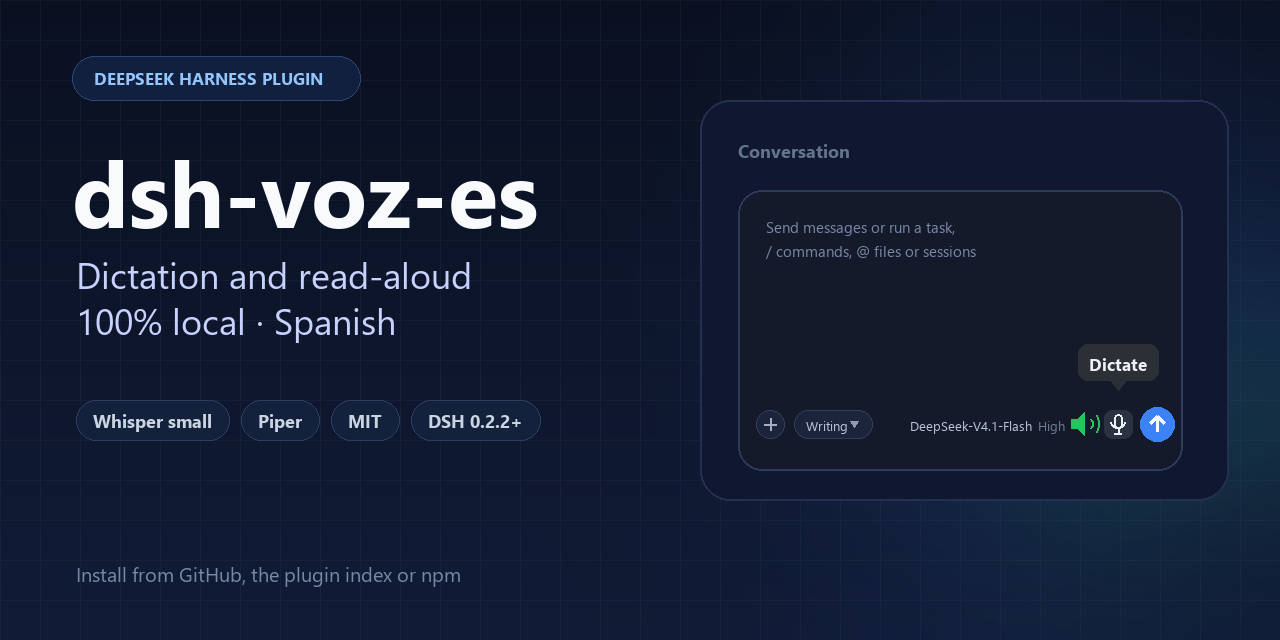
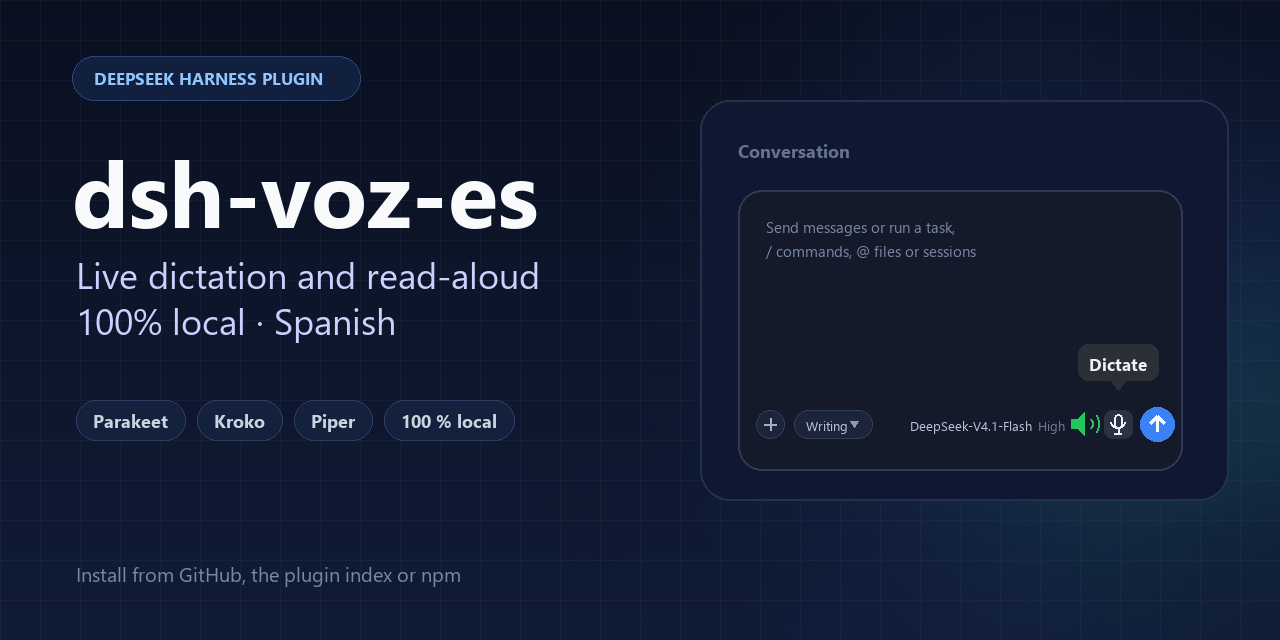
Documentacion al dia: Parakeet y dictado en vivo, imagenes regeneradas

Changed region(s): [[0.0625, 0.4062, 0.4375, 0.4688], [0.0625, 0.625, 0.4062, 0.6875]]

diff --git a/scripts/make-assets.py b/scripts/make-assets.py
@@ -32,7 +32,7 @@ AMBER = (245, 158, 11)
 COPY = {
     "es": {
         "banner": {
-            "subtitle": ["Dictado y lectura en voz alta", "100 % local · en español"],
+            "subtitle": ["Dictado en vivo y lectura", "100 % local · en español"],
             "card": "Conversación",
             "placeholder": ["Envía mensajes o ejecuta una tarea,", "/ comandos, @ archivos o sesiones"],
             "mode": "Escritura",
@@ -47,8 +47,8 @@ COPY = {
             "subtitle": "Todo ocurre en el equipo: el audio y el texto no salen a ningún servicio",
             "browser": ("Navegador (DSH Web)", ["Micrófono + waveform", "Sube WAV a 16 kHz", "Reproduce el WAV", "Inserta el texto"]),
             "host": ("Host DSH", ["Rutas autenticadas", "Cola y procesos hijos", "Sin bloquear la interfaz"]),
-            "child": ("Procesos hijos", ["Whisper (ASR)", "Piper (TTS)"]),
-            "disk": ("Modelos en disco", ["~/.dsh/…/whisper-small", "~/.dsh/…/piper-es", "Verificados por SHA-256"]),
+            "child": ("Procesos hijos", ["Parakeet (ASR)", "Piper (TTS)"]),
+            "disk": ("Modelos en disco", ["~/.dsh/…/parakeet-v3", "~/.dsh/…/kroko-es", "Verificados por SHA-256"]),
             "arrows": ["audio WAV", "texto / WAV", "HTTP + token", "resultado", "lee"],
             "no_network": "Sin red en tiempo de uso",
             "no_network_detail": "Los modelos se descargan una vez y se verifican; después todo es local.",
@@ -70,7 +70,7 @@ COPY = {
     },
     "en": {
         "banner": {
-            "subtitle": ["Dictation and read-aloud", "100% local · Spanish"],
+            "subtitle": ["Live dictation and read-aloud", "100% local · Spanish"],
             "card": "Conversation",
             "placeholder": ["Send messages or run a task,", "/ commands, @ files or sessions"],
             "mode": "Writing",
@@ -85,8 +85,8 @@ COPY = {
             "subtitle": "Everything happens on your machine: audio and text never leave it",
             "browser": ("Browser (DSH Web)", ["Microphone + waveform", "Uploads 16 kHz WAV", "Plays the WAV", "Inserts the text"]),
             "host": ("DSH Host", ["Authenticated routes", "Queue and child processes", "No UI blocking"]),
-            "child": ("Child processes", ["Whisper (ASR)", "Piper (TTS)"]),
-            "disk": ("Models on disk", ["~/.dsh/…/whisper-small", "~/.dsh/…/piper-es", "Verified by SHA-256"]),
+            "child": ("Child processes", ["Parakeet (ASR)", "Piper (TTS)"]),
+            "disk": ("Models on disk", ["~/.dsh/…/parakeet-v3", "~/.dsh/…/kroko-es", "Verified by SHA-256"]),
             "arrows": ["audio WAV", "text / WAV", "HTTP + token", "result", "reads"],
             "no_network": "No network at runtime",
             "no_network_detail": "Models are downloaded once and verified; after that everything is local.",
@@ -190,7 +190,7 @@ def banner(t: dict, out: str) -> None:
     draw.text((76, 250), t["subtitle"][0], font=font("segoeui.ttf", 36), fill=(199, 210, 254))
     draw.text((76, 296), t["subtitle"][1], font=font("segoeui.ttf", 36), fill=(199, 210, 254))
 
-    chips = ["Whisper small", "Piper", "MIT", "DSH 0.2.2+"]
+    chips = ["Parakeet", "Kroko", "Piper", "100 % local"]
     x = 76
     for label in chips:
         width = draw.textlength(label, font=font("segoeuib.ttf", 18)) + 34

diff --git a/README.es.md b/README.es.md
@@ -13,7 +13,7 @@
 </p>
 
 **Voz en español para [DeepSeek Harness](https://github.com/deepseek-ai/deepseek-harness), sin nube.**
-Dicta con Whisper local y escucha las respuestas con Piper, con modelos verificados por SHA-256 y pausa/reanudación real.
+Dicta **mientras hablas** con un modelo español en streaming, perfílalo con Parakeet y escucha las respuestas con Piper: modelos verificados por SHA-256 y sin nube.
 
 ---
 
@@ -29,7 +29,7 @@ Este repositorio resuelve las tres cosas con dos plugins que se instalan en DSH 
 
 | Plugin | Qué hace |
 |---|---|
-| **`dsh-whisper-voice`** | Añade un micrófono que dicta con **Whisper** (ONNX, sherpa-onnx) en español. El texto se inserta en el borrador sin borrar lo escrito. |
+| **`dsh-whisper-voice`** | El reconocedor local del micrófono: **Parakeet v3** (NeMo, 25 idiomas europeos) por defecto, o **Whisper** (`small`, `base`, `tiny`) como opción. El texto final se inserta en el borrador sin borrar lo escrito. |
 | **`dsh-dictado-vivo`** | Dicta **mientras hablas**: un modelo español en streaming (Kroko) escribe en el compositor y el texto queda editable para revisarlo antes de enviar. Añade una página de pruebas de sonido a la barra lateral. |
 | **`dsh-read-aloud`** | Lee las respuestas con **Piper** (voz neuronal local). Botón junto al micrófono: verde = lee, rojo tachado = silencio. Silenciar **pausa** de verdad y reanudar continúa donde iba; a los 5 s descarta. |
 
@@ -48,7 +48,7 @@ Este repositorio resuelve las tres cosas con dos plugins que se instalan en DSH 
 
 - **DSH 0.2.2.x** (probado en `0.2.2-rc.2` y `0.2.2-rc.3`).
 - `sherpa-onnx-node`, incluido en la instalación de DSH.
-- Para el dictado, activa antes el bundle **Voice input** de DSH (Plugins): el plugin de Whisper ajusta sus filas y necesita que existan.
+- Para el dictado, activa antes el bundle **Voice input** de DSH (Plugins): el plugin de dictado ajusta sus filas y necesita que existan.
 - Windows 11 probado. El motor soporta macOS y Linux; aún sin probar.
 
 ### Desde el índice de plugins (recomendado)
@@ -69,7 +69,7 @@ git+https://github.com/Navasfj/dsh-voz-es.git#<commit>&path:/packages/dsh-whispe
 git+https://github.com/Navasfj/dsh-voz-es.git#<commit>&path:/packages/dsh-dictado-vivo
 ```
 
-Orden para el dictado: **Voice input** primero y después `dsh-whisper-voice`.
+Orden para el dictado: **Voice input** primero y después `dsh-whisper-voice` y/o `dsh-dictado-vivo`.
 
 ### Desde npm (opcional)
 
@@ -78,7 +78,7 @@ cd packages/dsh-read-aloud && npm publish --access public
 cd ../dsh-whisper-voice && npm publish --access public
 ```
 
-Después: `@navasfj/dsh-read-aloud@1.0.0` y `@navasfj/dsh-whisper-voice@1.0.0`.
+Después: `@navasfj/dsh-read-aloud@1.1.0`, `@navasfj/dsh-whisper-voice@1.1.0` y `@navasfj/dsh-dictado-vivo@1.1.0`.
 
 ## Uso
 
@@ -119,7 +119,7 @@ El compositor real: el altavoz de lectura queda a la izquierda del micrófono de
 </p>
 
 - El navegador captura a **16 kHz mono** y sube el WAV por el canal autenticado de DSH.
-- El Host encola el trabajo y lo pasa a un **proceso hijo** (Whisper o Piper) por loopback con token.
+- El Host encola el trabajo y lo pasa a un **proceso hijo** (Parakeet, Whisper o Piper) por loopback con token.
 - La lectura devuelve un WAV que el navegador reproduce con un elemento de audio.
 - Los modelos viven en `%USERPROFILE%\.dsh\...` y se verifican antes de usarse.
 
@@ -149,14 +149,16 @@ Cada plugin se ajusta en su fila de `cordis.patch.yml`:
 
 | Modelo | Tamaño | Ruta |
 |---|---|---|
-| Whisper `small` INT8 | ~375 MB | `~/.dsh/speech-to-text/whisper/models/whisper-small` |
+| Parakeet v3 INT8 (por defecto) | ~670 MB | `~/.dsh/speech-to-text/whisper/models/whisper-parakeet-v3` |
+| Kroko español en streaming (dsh-dictado-vivo) | ~155 MB | `~/.dsh/dictado-vivo/models/kroko-es` |
+| Whisper `small` INT8 (opcional) | ~375 MB | `~/.dsh/speech-to-text/whisper/models/whisper-small` |
 | Piper `es_ES-sharvard-medium` + espeak | ~77 MB | `~/.dsh/read-aloud/models/piper-es-sharvard` |
 
 La primera vez que se usa cada plugin se descarga su modelo. Desinstalar el plugin no borra la caché.
 
 ## Privacidad
 
-- El audio va del navegador al Host por el canal autenticado de DSH y de ahí al proceso local de Whisper.
+- El audio va del navegador al Host por el canal autenticado de DSH y de ahí al proceso local de reconocimiento.
 - La lectura sintetiza en el Host con Piper; el navegador solo reproduce el WAV.
 - Sin telemetría, sin cuentas, sin servicios de voz. La única red es la descarga inicial del modelo.
 
@@ -165,7 +167,7 @@ La primera vez que se usa cada plugin se descarga su modelo. Desinstalar el plug
 | Síntoma | Causa y solución |
 |---|---|
 | No aparece el micrófono | El bundle **Voice input** no está activo o no se recargó la página. Actívalo y recarga con Ctrl+Shift+R. |
-| El micrófono aparece pero no transcribe | Falta el modelo o el proceso de Whisper no arrancó. Mira Plugins → Voz con Whisper y la consola del navegador. |
+| El micrófono aparece pero no transcribe | Falta el modelo o el proceso de reconocimiento no arrancó. Mira Plugins → dictado local y la consola del navegador. |
 | La lectura no suena | Comprueba que el botón está verde; si acabas de instalar, espera a que termine la descarga del modelo. |
 | La primera transcripción tarda | `small` carga el modelo en el primer uso; después queda caliente. Con `base` es más rápido y menos preciso. |
 | Descarga bloqueada | Usa `modelDirectory` con los pesos ya descargados, o revisa el acceso a Hugging Face. |
@@ -191,4 +193,4 @@ Guía para contribuir: [CONTRIBUTING.es.md](CONTRIBUTING.es.md). Para reportar v
 
 ## Licencia y atribuciones
 
-Código **MIT** — ver [LICENSE](LICENSE). Los modelos y el runtime tienen sus propias licencias (Piper, espeak-ng, Whisper, sherpa-onnx): ver [NOTICE.md](NOTICE.md).
+Código **MIT** — ver [LICENSE](LICENSE). Los modelos y el runtime tienen sus propias licencias (Parakeet, Kroko, Piper, espeak-ng, Whisper, sherpa-onnx): ver [NOTICE.md](NOTICE.md).

diff --git a/README.md b/README.md
@@ -13,7 +13,7 @@
 </p>
 
 **Local Spanish voice for [DeepSeek Harness](https://github.com/deepseek-ai/deepseek-harness), without the cloud.**
-Dictate with on-device Whisper and listen to replies with Piper, with SHA-256-verified models and true pause/resume.
+Dictate **while you speak** with a Spanish streaming model, refine it with Parakeet, and listen to replies with Piper — SHA-256-verified models, no cloud.
 
 ---
 
@@ -29,7 +29,7 @@ This repository fixes all three with two plugins that install into DSH and run o
 
 | Plugin | What it does |
 |---|---|
-| **`dsh-whisper-voice`** | Adds a microphone that dictates with **Whisper** (ONNX, sherpa-onnx) in Spanish. The transcript is inserted at the cursor without clearing what you already wrote. |
+| **`dsh-whisper-voice`** | The local recognizer behind the microphone: **Parakeet v3** (NeMo, 25 European languages) by default, or **Whisper** (`small`, `base`, `tiny`) as an option. The final transcript is inserted at the cursor without clearing what you already wrote. |
 | **`dsh-dictado-vivo`** | Dictates **while you speak**: a Spanish streaming model (Kroko) writes in the composer and the text stays editable, so you review it before sending. Adds a sound-test page to the sidebar. |
 | **`dsh-read-aloud`** | Reads replies with **Piper** (local neural voice). Button next to the microphone: green = reading, red slashed = muted. Muting **pauses** for real; resuming continues where it stopped; after 5 s it discards. |
 
@@ -48,7 +48,7 @@ This repository fixes all three with two plugins that install into DSH and run o
 
 - **DSH 0.2.2.x** (tested on `0.2.2-rc.2` and `0.2.2-rc.3`).
 - `sherpa-onnx-node`, shipped with the DSH installation.
-- For dictation, enable DSH's **Voice input** bundle first (Plugins): the Whisper provider adjusts its rows and needs them to exist.
+- For dictation, enable DSH's **Voice input** bundle first (Plugins): the dictation provider adjusts its rows and needs them to exist.
 - Tested on Windows 11. The engine supports macOS and Linux; not tested there yet.
 
 ### From the plugin index (recommended)
@@ -69,7 +69,7 @@ git+https://github.com/Navasfj/dsh-voz-es.git#<commit>&path:/packages/dsh-whispe
 git+https://github.com/Navasfj/dsh-voz-es.git#<commit>&path:/packages/dsh-dictado-vivo
 ```
 
-Order for dictation: **Voice input** first, then `dsh-whisper-voice`.
+Order for dictation: **Voice input** first, then `dsh-whisper-voice` and/or `dsh-dictado-vivo`.
 
 ### From npm (optional)
 
@@ -78,7 +78,7 @@ cd packages/dsh-read-aloud && npm publish --access public
 cd ../dsh-whisper-voice && npm publish --access public
 ```
 
-Then `@navasfj/dsh-read-aloud@1.0.0` and `@navasfj/dsh-whisper-voice@1.0.0`.
+Then `@navasfj/dsh-read-aloud@1.1.0`, `@navasfj/dsh-whisper-voice@1.1.0` and `@navasfj/dsh-dictado-vivo@1.1.0`.
 
 ## Usage
 
@@ -119,7 +119,7 @@ The real composer: the read-aloud speaker sits left of the dictation microphone,
 </p>
 
 - The browser captures at **16 kHz mono** and uploads the WAV over DSH's authenticated channel.
-- The Host queues the work and hands it to a **child process** (Whisper or Piper) over loopback with a token.
+- The Host queues the work and hands it to a **child process** (Parakeet, Whisper or Piper) over loopback with a token.
 - Reading returns a WAV that the browser plays with an audio element.
 - Models live under `%USERPROFILE%\.dsh\...` and are verified before use.
 
@@ -149,14 +149,16 @@ Each plugin is configured in its `cordis.patch.yml` row:
 
 | Model | Size | Path |
 |---|---|---|
-| Whisper `small` INT8 | ~375 MB | `~/.dsh/speech-to-text/whisper/models/whisper-small` |
+| Parakeet v3 INT8 (default) | ~670 MB | `~/.dsh/speech-to-text/whisper/models/whisper-parakeet-v3` |
+| Kroko Spanish streaming (dsh-dictado-vivo) | ~155 MB | `~/.dsh/dictado-vivo/models/kroko-es` |
+| Whisper `small` INT8 (optional) | ~375 MB | `~/.dsh/speech-to-text/whisper/models/whisper-small` |
 | Piper `es_ES-sharvard-medium` + espeak | ~77 MB | `~/.dsh/read-aloud/models/piper-es-sharvard` |
 
 Each plugin downloads its model on first use. Uninstalling the plugin does not delete the cache.
 
 ## Privacy
 
-- Audio goes from the browser to the Host over DSH's authenticated channel and then to the local Whisper process.
+- Audio goes from the browser to the Host over DSH's authenticated channel and then to the local recognizer process.
 - Reading synthesizes in the Host with Piper; the browser only plays the WAV.
 - No telemetry, no accounts, no voice services. The only network use is the initial model download.
 
@@ -165,7 +167,7 @@ Each plugin downloads its model on first use. Uninstalling the plugin does not d
 | Symptom | Cause and fix |
 |---|---|
 | No microphone appears | The **Voice input** bundle is not enabled or the page was not reloaded. Enable it and press Ctrl+Shift+R. |
-| The microphone appears but does not transcribe | The model is missing or the Whisper process did not start. Check Plugins → Whisper voice and the browser console. |
+| The microphone appears but does not transcribe | The model is missing or the recognizer process did not start. Check Plugins → local dictation and the browser console. |
 | Reading is silent | Make sure the button is green; if you just installed, wait for the Piper model download. |
 | The first transcription is slow | `small` loads the model on first use; it stays warm afterwards. `base` is faster and less accurate. |
 | The download is blocked | Use `modelDirectory` with weights already on disk, or check access to Hugging Face. |
@@ -191,4 +193,4 @@ Contributing: [CONTRIBUTING.md](CONTRIBUTING.md). Reporting vulnerabilities: [SE
 
 ## License and credits
 
-Code **MIT** — see [LICENSE](LICENSE). Models and runtime keep their own licenses (Piper, espeak-ng, Whisper, sherpa-onnx): see [NOTICE.md](NOTICE.md).
+Code **MIT** — see [LICENSE](LICENSE). Models and runtime keep their own licenses (Parakeet, Kroko, Piper, espeak-ng, Whisper, sherpa-onnx): see [NOTICE.md](NOTICE.md).

diff --git a/docs/USAGE.md b/docs/USAGE.md
@@ -6,12 +6,12 @@ Esta guía explica qué hace cada botón, qué ocurre por dentro y por qué el m
 
 ---
 
-## 1. Dictado (dsh-whisper-voice)
+## 1. Dictado (dsh-whisper-voice y dsh-dictado-vivo)
 
 ### Antes de dictar
 
-1. El bundle **Voice input** de DSH debe estar activo (Plugins). El plugin de Whisper ajusta su configuración; sin él no hay micrófono.
-2. La primera vez, DSH descarga el modelo de Whisper (~375 MB con `small`) y lo verifica. El estado se ve en **Plugins → Voz con Whisper**.
+1. El bundle **Voice input** de DSH debe estar activo (Plugins). El plugin de dictado ajusta su configuración; sin él no hay micrófono.
+2. La primera vez, DSH descarga el modelo (**Parakeet v3**, ~670 MB; o Whisper `small`, ~375 MB si lo eliges) y lo verifica. El estado se ve en **Plugins → dictado local**.
 3. El navegador pedirá permiso de micrófono la primera vez.
 
 ### Grabar
@@ -30,13 +30,13 @@ El texto no se inserta solo: aparece **Insertar** o descartar junto al micrófon
 - Grabación máxima: **120 segundos** y **4 MB** de WAV.
 - El navegador convierte a **16 kHz mono**; el Host valida el WAV antes de transcribir.
 - Modelos: `tiny` (103 MB, rápido y flojo), `base` (160 MB, dictado muy claro) y `small` (375 MB, el valor por defecto). Con `small` una frase de 8 s tarda unos 7 s en CPU; con `base`, unos 2 s.
-- Idioma: `es` por defecto. `auto` deja que Whisper lo detecte.
+- Idioma: `es` por defecto. `auto` deja que el motor lo detecte; Parakeet es multilingüe y no necesita pista.
 
 ### Qué ocurre por dentro
 
 1. El navegador graba y codifica el WAV.
 2. Lo envía al Host por el canal autenticado de DSH.
-3. El Host lo pasa a un **proceso hijo** con Whisper (sherpa-onnx) para no bloquear la interfaz.
+3. El Host lo pasa a un **proceso hijo** con Parakeet o Whisper (sherpa-onnx) para no bloquear la interfaz.
 4. Vuelve el texto y se inserta en el borrador.
 
 El audio es **transitorio**: no se guarda como evento de sesión ni como adjunto. Solo entra en la conversación lo que tú envíes.
@@ -105,7 +105,7 @@ La voz es Piper `es_ES-sharvard-medium` (femenina, 22 kHz). Cambiar a otra voz d
 
 ## 3. Privacidad
 
-- El audio del micrófono va del navegador al Host por el canal autenticado de DSH y de ahí al proceso local de Whisper.
+- El audio del micrófono va del navegador al Host por el canal autenticado de DSH y de ahí al proceso local de reconocimiento.
 - La lectura sintetiza en el Host con Piper; el navegador solo reproduce el WAV.
 - Sin telemetría, sin cuentas y sin servicios de voz.
 - La única red que se usa es la **descarga inicial** de los modelos desde Hugging Face, verificada por tamaño y SHA-256.
@@ -118,7 +118,7 @@ La voz es Piper `es_ES-sharvard-medium` (femenina, 22 kHz). Cambiar a otra voz d
 El bundle Voice input no está activo o la página no se recargó. Actívalo en Plugins y recarga con Ctrl+Shift+R.
 
 **El micrófono aparece pero no transcribe.**
-Mira Plugins → Voz con Whisper: modelo descargado, estado listo y errores. Si acabas de instalar, espera a que termine la descarga.
+Mira Plugins → dictado local: modelo descargado, estado listo y errores. Si acabas de instalar, espera a que termine la descarga.
 
 **La lectura no suena.**
 Comprueba que el botón está verde. Si acabas de instalar, espera a que se descargue el modelo de Piper. Revisa también el volumen del sistema.
@@ -130,7 +130,7 @@ Han pasado más de 5 segundos: es el comportamiento previsto. Pulsa el botón y 
 Sí, con `speed` en la configuración del plugin (0.8–1.0).
 
 **El dictado repite la misma frase varias veces.**
-Era un bucle de Whisper al encontrarse silencio. El plugin ahora recorta el silencio inicial y final de la grabación y colapsa las frases repetidas; si aun así aparece, dicta sin dejar pausas largas antes de hablar o al terminar.
+Era un bucle de Whisper al encontrarse silencio. El plugin recorta el silencio inicial y final (solo con Whisper; Parakeet no lo necesita) y colapsa las frases repetidas; si aun así aparece, dicta sin dejar pausas largas antes de hablar o al terminar.
 
 **¿Funciona sin internet?**
 Sí, una vez descargados los modelos. La primera preparación necesita red.

diff --git a/docs/USAGE.en.md b/docs/USAGE.en.md
@@ -6,12 +6,12 @@ This guide explains what each button does, what happens under the hood, and why 
 
 ---
 
-## 1. Dictation (dsh-whisper-voice)
+## 1. Dictation (dsh-whisper-voice and dsh-dictado-vivo)
 
 ### Before dictating
 
-1. DSH's **Voice input** bundle must be enabled (Plugins). The Whisper provider adjusts its configuration; without it there is no microphone.
-2. The first time, DSH downloads the Whisper model (~375 MB with `small`) and verifies it. Status is under **Plugins → Whisper voice**.
+1. DSH's **Voice input** bundle must be enabled (Plugins). The dictation provider adjusts its configuration; without it there is no microphone.
+2. The first time, DSH downloads the model (**Parakeet v3**, ~670 MB; or Whisper `small`, ~375 MB if you pick it) and verifies it. Status is under **Plugins → local dictation**.
 3. The browser asks for microphone permission the first time.
 
 ### Recording
@@ -30,13 +30,13 @@ The text is not inserted automatically: **Insert** or discard appears next to th
 - Max recording: **120 seconds** and **4 MB** of WAV.
 - The browser converts to **16 kHz mono**; the Host validates the WAV before transcribing.
 - Models: `tiny` (103 MB, fast and loose), `base` (160 MB, very clear dictation) and `small` (375 MB, the default). With `small` an 8 s sentence takes about 7 s on CPU; with `base`, about 2 s.
-- Language: `es` by default. `auto` lets Whisper detect it.
+- Language: `es` by default. `auto` lets the engine detect it; Parakeet is multilingual and needs no hint.
 
 ### Under the hood
 
 1. The browser records and encodes the WAV.
 2. It uploads it to the Host over DSH's authenticated channel.
-3. The Host hands it to a **child process** with Whisper (sherpa-onnx) so the UI is not blocked.
+3. The Host hands it to a **child process** with Parakeet or Whisper (sherpa-onnx) so the UI is not blocked.
 4. The text comes back and is inserted into the draft.
 
 Audio is **transient**: it is not stored as a session event or an attachment. Only what you send enters the conversation.
@@ -105,7 +105,7 @@ The voice is Piper `es_ES-sharvard-medium` (female, 22 kHz). Switching to anothe
 
 ## 3. Privacy
 
-- Microphone audio goes from the browser to the Host over DSH's authenticated channel and then to the local Whisper process.
+- Microphone audio goes from the browser to the Host over DSH's authenticated channel and then to the local recognizer process.
 - Reading synthesizes in the Host with Piper; the browser only plays the WAV.
 - No telemetry, no accounts and no voice services.
 - The only network use is the **initial download** of the models from Hugging Face, verified by size and SHA-256.
@@ -118,7 +118,7 @@ The voice is Piper `es_ES-sharvard-medium` (female, 22 kHz). Switching to anothe
 The Voice input bundle is not enabled or the page was not reloaded. Enable it in Plugins and press Ctrl+Shift+R.
 
 **The microphone appears but does not transcribe.**
-Check Plugins → Whisper voice: model downloaded, ready state and errors. If you just installed it, wait for the download to finish.
+Check Plugins → local dictation: model downloaded, ready state and errors. If you just installed it, wait for the download to finish.
 
 **Reading is silent.**
 Make sure the button is green. If you just installed, wait for the Piper model download. Check the system volume too.
@@ -130,7 +130,7 @@ More than 5 seconds passed: that is the intended behavior. Press the button and 
 Yes, with `speed` in the plugin configuration (0.8–1.0).
 
 **Dictation repeats the same sentence several times.**
-It was a Whisper loop triggered by silence. The plugin now trims leading and trailing silence and collapses repeated sentences; if it still happens, dictate without long pauses before speaking or at the end.
+It was a Whisper loop triggered by silence. The plugin trims leading and trailing silence (Whisper only; Parakeet does not need it) and collapses repeated sentences; if it still happens, dictate without long pauses before speaking or at the end.
 
 **Does it work offline?**
 Yes, once the models are downloaded. The first setup needs network.

diff --git a/packages/dsh-whisper-voice/README.md b/packages/dsh-whisper-voice/README.md
@@ -1,6 +1,6 @@
 # @navasfj/dsh-whisper-voice
 
-Proveedor de reconocimiento **Whisper local** para el micrófono de entrada de voz
+Proveedor de reconocimiento **local** para el micrófono de entrada de voz: **Parakeet v3** por defecto y **Whisper** como opción
 de DeepSeek Harness, con español.
 
 ## Por qué existe

diff --git a/packages/dsh-whisper-voice/docs/DETAIL.md b/packages/dsh-whisper-voice/docs/DETAIL.md
@@ -1,4 +1,4 @@
-# Voz con Whisper (español)
+# Dictado local: Parakeet y Whisper
 
 Añade un reconocedor **Whisper local** a la entrada de voz de DeepSeek Harness y
 lo deja seleccionado por defecto en español. La interfaz no se duplica: el botón
